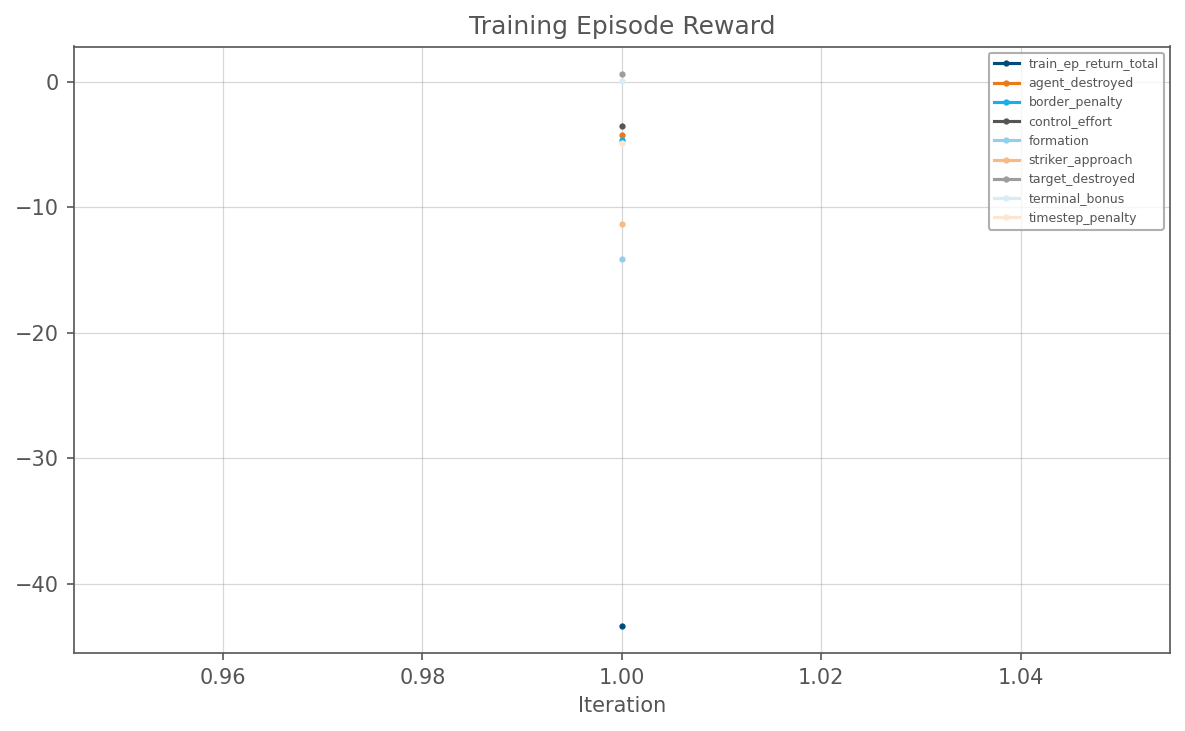
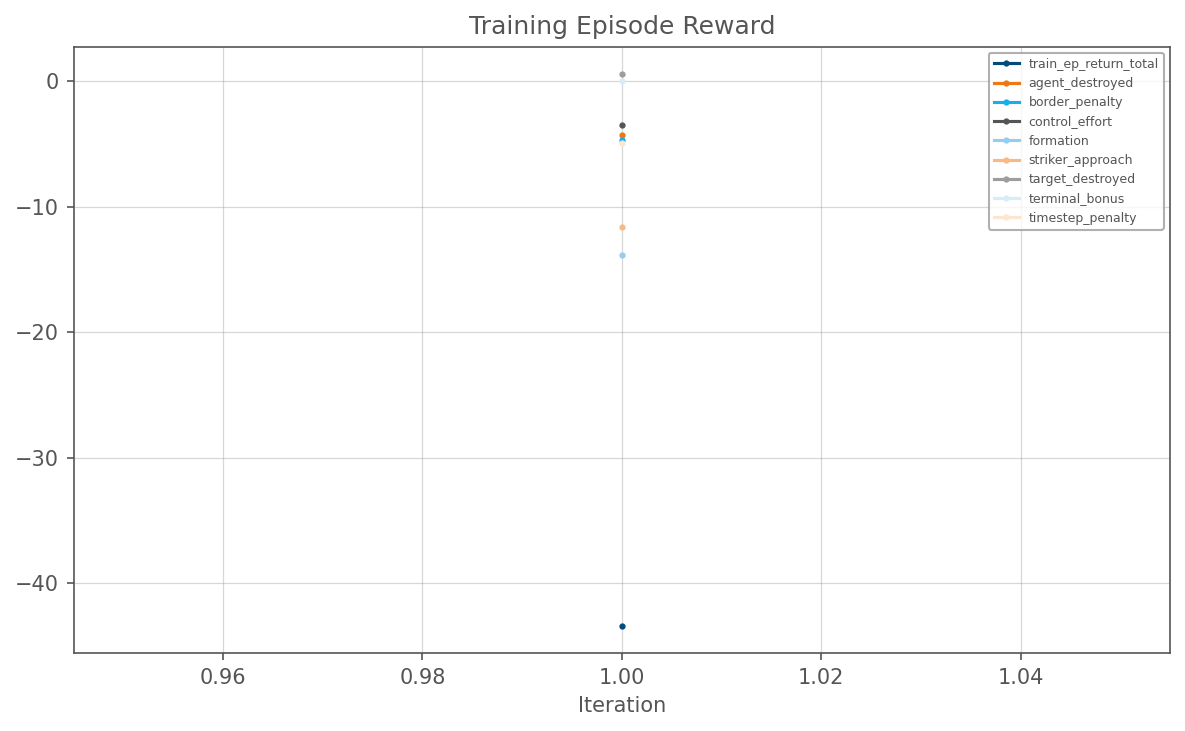
evaluation fucntion adapted

Changed region(s): [[0.0312, 0.7825, 0.0624, 0.8126]]

diff --git a/0_TA_HF_FOFE-MAPPO/evaluate_policy.py b/0_TA_HF_FOFE-MAPPO/evaluate_policy.py
@@ -44,6 +44,21 @@ straight across. Field rules are identical:
 copy-paste compatibility. `name` is the row label in the results table.
 
 ──────────────────────────────────────────────────────────────────────────────
+HOW TO EVALUATE DIFFERENT POLICIES IN ONE RUN
+──────────────────────────────────────────────────────────────────────────────
+Each scenario may set `policy_file` to choose which checkpoint evaluates it, so
+a single run can compare policies side by side:
+
+    policy_file="BaselineV2.pt"      → resolves under runs/ (the common case)
+    policy_file=r"C:\\path\\to\\x.pt"  → absolute path, used as-is
+    policy_file=None                 → falls back to the --checkpoint default
+
+Checkpoints are loaded once and cached, so reusing the same file across
+scenarios costs nothing. The "Policy" column in the table shows what ran where.
+--checkpoint is optional: it is only required if some scenario leaves
+`policy_file` as None.
+
+──────────────────────────────────────────────────────────────────────────────
 HOW EVALUATION WORKS
 ──────────────────────────────────────────────────────────────────────────────
 For every scenario we run N_REPEATS independent repeats; each repeat evaluates
@@ -78,6 +93,7 @@ for _stream in (sys.stdout, sys.stderr):
 
 # ── package bootstrap (so the file runs as a script OR as -m fofe_mappo.*) ──
 _THIS_DIR = Path(__file__).resolve().parent
+_RUNS_DIR = _THIS_DIR / "runs"      # bare policy_file names resolve here
 _PKG_NAME = "fofe_mappo"
 if __package__ in (None, ""):
     sys.path.insert(0, str(_THIS_DIR.parent))
@@ -112,7 +128,30 @@ from .run_curriculum import CurriculumSection, _section_to_env_cfg, _section_lab
 EVAL_SCENARIOS: List[CurriculumSection] = [
     CurriculumSection(
         name="Baseline S1",
-        n_iters=200,                       # ignored during evaluation
+        policy_file="BaselineV2.pt",
+        n_iters=1, # not used
+        n_strikers=1, n_jammers=2,
+        n_known_targets=2, n_unknown_targets=0,
+        n_known_radars=6, n_unknown_radars=0,
+        radar_kill_probability=0.5,
+        scenario="S2",
+        communicate=False,
+    ), 
+    CurriculumSection(
+        name="Baseline S2",
+        policy_file="BaselineV2.pt",
+        n_iters=1, # not used
+        n_strikers=1, n_jammers=2,
+        n_known_targets=1, n_unknown_targets=2,
+        n_known_radars=4, n_unknown_radars=2,
+        radar_kill_probability=0.5,
+        scenario="S2",
+        communicate=False,
+    ), 
+    CurriculumSection(
+        name="FOFE-MAPPO S1",
+        policy_file="FOFE-MAPPO-BaselineV2.pt",
+        n_iters=1, # not used
         n_strikers=1, n_jammers=2,
         n_known_targets=2, n_unknown_targets=0,
         n_known_radars=6, n_unknown_radars=0,
@@ -121,8 +160,9 @@ EVAL_SCENARIOS: List[CurriculumSection] = [
         communicate=True,
     ), 
     CurriculumSection(
-        name="Baseline S2",
-        n_iters=200,                       # ignored during evaluation
+        name="FOFE-MAPPO S2",
+        policy_file="FOFE-MAPPO-BaselineV2.pt",
+        n_iters=1, # not used
         n_strikers=1, n_jammers=2,
         n_known_targets=1, n_unknown_targets=2,
         n_known_radars=4, n_unknown_radars=2,
@@ -221,6 +261,20 @@ class _LoadedCheckpoint:
         )
 
 
+def _resolve_policy_path(policy_file: Optional[str],
+                         default_path: Optional[Path]) -> Optional[Path]:
+    """Resolve a scenario's `policy_file` to a concrete checkpoint path.
+
+    None              → the run's --checkpoint default (may be None).
+    bare name / rel.  → under runs/ (e.g. "BaselineV2.pt").
+    absolute path     → used as-is.
+    """
+    if policy_file is None:
+        return default_path
+    p = Path(policy_file)
+    return p if p.is_absolute() else (_RUNS_DIR / p)
+
+
 def _build_policy_for_scenario(ckpt: _LoadedCheckpoint, env_cfg: EnvConfig,
                                device: torch.device):
     """Rebuild a policy sized to env_cfg's role split and strict-load weights.
@@ -250,23 +304,48 @@ def _mean_std(values: List[float]) -> tuple[float, float]:
 
 
 def evaluate_scenarios(
-    ckpt: _LoadedCheckpoint,
     scenarios: List[CurriculumSection],
+    default_ckpt_path: Optional[Path],
     n_episodes: int,
     n_repeats: int,
     base_seed: int,
     device: torch.device,
 ) -> List[Dict[str, Any]]:
-    """Evaluate the frozen policy on every scenario and return result rows."""
+    """Evaluate every scenario (each with its own policy) and return result rows."""
     rows: List[Dict[str, Any]] = []
+    cache: Dict[str, _LoadedCheckpoint] = {}      # resolved path → loaded ckpt
+
+    def _load(path: Path) -> _LoadedCheckpoint:
+        key = str(path.resolve())
+        if key not in cache:
+            print(f"  Loading policy: {path.name}", flush=True)
+            ck = _LoadedCheckpoint(path, device)
+            print(f"      producer={ck.producer}  "
+                  f"FOFE={'on' if ck.fofe_cfg.use_fofe else 'off'}  "
+                  f"HF_radar={'on' if ck.hf_radar_cfg is not None else 'off'}",
+                  flush=True)
+            cache[key] = ck
+        return cache[key]
 
     for i, section in enumerate(scenarios):
+        ckpt_path = _resolve_policy_path(section.policy_file, default_ckpt_path)
+        if ckpt_path is None:
+            raise RuntimeError(
+                f"Scenario '{section.name}' sets no policy_file and no "
+                f"--checkpoint default was given — cannot pick a policy."
+            )
+        if not ckpt_path.exists():
+            raise FileNotFoundError(
+                f"Scenario '{section.name}': policy not found: {ckpt_path}"
+            )
+        ckpt = _load(ckpt_path)
+
         env_cfg = _section_to_env_cfg(
             section, ckpt.base_env_cfg, ckpt.reward_cfg, ckpt.fofe_cfg
         )
         dr_tag = "DR" if env_cfg.dr is not None else "fixed"
         print(f"[{i + 1:2d}/{len(scenarios)}] {section.name:20s} ({dr_tag})  "
-              f"{_section_label(section, env_cfg)}", flush=True)
+              f"[{ckpt_path.name}]  {_section_label(section, env_cfg)}", flush=True)
 
         policy = _build_policy_for_scenario(ckpt, env_cfg, device)
 
@@ -288,6 +367,8 @@ def evaluate_scenarios(
 
         row: Dict[str, Any] = {
             "name": section.name,
+            "policy": ckpt_path.name,
+            "producer": ckpt.producer,
             "scenario": env_cfg.scenario,
             "S": env_cfg.n_strikers, "J": env_cfg.n_jammers,
             "T": env_cfg.n_targets, "R": env_cfg.n_radars,
@@ -307,11 +388,11 @@ def evaluate_scenarios(
     return rows
 
 
-def _print_table(rows: List[Dict[str, Any]], n_episodes: int, n_repeats: int,
-                 producer: str) -> None:
+def _print_table(rows: List[Dict[str, Any]], n_episodes: int,
+                 n_repeats: int) -> None:
     """Print the KPI table: one row per scenario, mean ± std per KPI."""
     # Context columns + one cell per KPI ("0.923 ± 0.031").
-    ctx_headers = ["Scenario", "Scn", "S", "J", "T", "R", "Comm"]
+    ctx_headers = ["Scenario", "Policy", "Scn", "S", "J", "T", "R", "Comm"]
 
     def _cell(row, key, fmt):
         mean, std = row[f"{key}_mean"], row[f"{key}_std"]
@@ -323,7 +404,7 @@ def _print_table(rows: List[Dict[str, Any]], n_episodes: int, n_repeats: int,
     table_rows = []
     for row in rows:
         name = row["name"] + ("*" if row["dr"] else "")
-        ctx = [name, row["scenario"], str(row["S"]), str(row["J"]),
+        ctx = [name, row["policy"], row["scenario"], str(row["S"]), str(row["J"]),
                str(row["T"]), str(row["R"]), "on" if row["comm"] else "off"]
         kpis = [_cell(row, key, fmt) for key, _, _, fmt in KPI_COLUMNS]
         table_rows.append(ctx + kpis)
@@ -340,8 +421,10 @@ def _print_table(rows: List[Dict[str, Any]], n_episodes: int, n_repeats: int,
             for c, cell in enumerate(cells)
         )
 
+    n_policies = len({row["policy"] for row in rows})
     sep = "  ".join("-" * w for w in widths)
-    title = (f"  Policy Evaluation  (producer: {producer} | "
+    title = (f"  Policy Evaluation  ({n_policies} "
+             f"{'policy' if n_policies == 1 else 'policies'} | "
              f"{n_episodes} episodes × {n_repeats} repeats per scenario)")
     bar = "=" * max(len(sep), len(title))
 
@@ -367,8 +450,8 @@ def _write_csv(rows: List[Dict[str, Any]], out_dir: Path, n_episodes: int,
     stamp = datetime.now().strftime("%Y%m%d_%H%M%S")
     out_path = out_dir / f"policy_eval_{stamp}.csv"
 
-    fieldnames = ["name", "scenario", "S", "J", "T", "R", "comm", "dr",
-                  "n_episodes", "n_repeats"]
+    fieldnames = ["name", "policy", "producer", "scenario", "S", "J", "T", "R",
+                  "comm", "dr", "n_episodes", "n_repeats"]
     for key, *_ in KPI_COLUMNS:
         fieldnames += [f"{key}_mean", f"{key}_std"]
 
@@ -376,7 +459,8 @@ def _write_csv(rows: List[Dict[str, Any]], out_dir: Path, n_episodes: int,
         writer = csv.DictWriter(fh, fieldnames=fieldnames)
         writer.writeheader()
         for row in rows:
-            out = {k: row[k] for k in ("name", "scenario", "S", "J", "T", "R", "comm", "dr")}
+            out = {k: row[k] for k in ("name", "policy", "producer", "scenario",
+                                       "S", "J", "T", "R", "comm", "dr")}
             out["n_episodes"] = n_episodes
             out["n_repeats"] = n_repeats
             for key, *_ in KPI_COLUMNS:
@@ -395,8 +479,9 @@ def _build_parser() -> argparse.ArgumentParser:
         description="Evaluate one pretrained FOFE-MAPPO checkpoint across the "
         "EVAL_SCENARIOS defined at the top of this file.",
     )
-    p.add_argument("--checkpoint", required=True, type=str, metavar="PATH",
-                   help="Path to a .pt checkpoint from run.py or run_curriculum.py.")
+    p.add_argument("--checkpoint", type=str, default=None, metavar="PATH",
+                   help="Default .pt checkpoint for scenarios that leave "
+                   "policy_file=None. Optional if every scenario sets policy_file.")
     p.add_argument("--n_episodes", type=int, default=N_EVAL_EPISODES,
                    help=f"Episodes per repeat (default: {N_EVAL_EPISODES}).")
     p.add_argument("--n_repeats", type=int, default=N_REPEATS,
@@ -415,36 +500,35 @@ def _build_parser() -> argparse.ArgumentParser:
 def main() -> None:
     args = _build_parser().parse_args()
 
-    ckpt_path = Path(args.checkpoint)
-    if not ckpt_path.exists():
-        raise FileNotFoundError(f"Checkpoint not found: {ckpt_path}")
     if not EVAL_SCENARIOS:
         raise RuntimeError("EVAL_SCENARIOS is empty — define at least one scenario.")
+
+    default_ckpt_path = Path(args.checkpoint) if args.checkpoint else None
+    if default_ckpt_path is not None and not default_ckpt_path.exists():
+        raise FileNotFoundError(f"Checkpoint not found: {default_ckpt_path}")
 
     device = torch.device(args.device) if args.device else torch.device(
         "cuda" if torch.cuda.is_available() else "cpu"
     )
 
+    overrides = sum(s.policy_file is not None for s in EVAL_SCENARIOS)
     print("─" * 70)
-    print(f"  Checkpoint : {ckpt_path.name}")
-    print(f"  Device     : {device}")
-    ckpt = _LoadedCheckpoint(ckpt_path, device)
-    print(f"  Producer   : {ckpt.producer}")
-    print(f"  FOFE       : {'enabled' if ckpt.fofe_cfg.use_fofe else 'disabled (legacy)'}")
-    print(f"  HF radar   : {'enabled' if ckpt.hf_radar_cfg is not None else 'disabled'}")
-    print(f"  Scenarios  : {len(EVAL_SCENARIOS)}")
-    print(f"  Eval       : {args.n_episodes} episodes × {args.n_repeats} repeats")
+    print(f"  Default ckpt: {default_ckpt_path.name if default_ckpt_path else '(none)'}")
+    print(f"  Device      : {device}")
+    print(f"  Scenarios   : {len(EVAL_SCENARIOS)} "
+          f"({overrides} with a per-scenario policy_file)")
+    print(f"  Eval        : {args.n_episodes} episodes × {args.n_repeats} repeats")
     print("─" * 70)
 
     rows = evaluate_scenarios(
-        ckpt, EVAL_SCENARIOS,
+        EVAL_SCENARIOS, default_ckpt_path,
         n_episodes=args.n_episodes,
         n_repeats=args.n_repeats,
         base_seed=args.seed,
         device=device,
     )
 
-    _print_table(rows, args.n_episodes, args.n_repeats, ckpt.producer)
+    _print_table(rows, args.n_episodes, args.n_repeats)
 
     if not args.no_csv:
         out_dir = Path(args.out_dir) if args.out_dir else (_THIS_DIR / "eval_results")

diff --git a/0_TA_HF_FOFE-MAPPO/config.py b/0_TA_HF_FOFE-MAPPO/config.py
@@ -192,8 +192,9 @@ class EnvConfig:
     min_turn_radius: float = 0.001
 
     # Sensors
-    R_obs: float = 0.4
-    R_comm: float = 0.4
+    # R_radar = +- 0.2 < R_obs < R_comm
+    R_obs: float = 0.3 
+    R_comm: float = 0.5 
     # Inter-agent communication. When True, agents within a connected R_comm
     # subgroup share observations (multi-hop). When False, each agent forms its
     # own singleton subgroup and only senses entities within its own R_obs.
@@ -225,8 +226,8 @@ class EnvConfig:
     striker_v_min: float = 0.005
 
     # Jammers
-    jammer_jam_radius: float = 0.35
-    jammer_jam_effect: float = 0.15
+    jammer_jam_radius: float = 0.35 # LF model 
+    jammer_jam_effect: float = 0.15 # LF model 
     jammer_v_min: float = 0.005
 
     # Threats
@@ -426,17 +427,17 @@ class HFRadarConfig:
 
     # Radar angular/lobe model parameter
     radar_side_lobe_gain: Optional[float] = None   # G_S [dB], preferred name
-    G_S: float = 5                                 # legacy alias [dB]
+    G_S: float = 10                                 # side lobe gain [dB] = main lobe gain - 17 dB
 
     # Jammer RF parameters
     jammer_tx_power: Optional[float] = None        # P_J [W], preferred name
     jammer_gain: Optional[float] = None            # G_J [dB], preferred name
     P_J: float = 1e1                              # legacy alias [W]
-    G_J: float = 15.0                              # legacy alias [dB]
+    G_J: float = 10.0                              # legacy alias [dB]
 
     # Angular lobe boundaries (degrees, converted to radians internally)
     theta_main_deg: float = 10    # full main-lobe width 
-    theta_side_deg: float = 17.5*2    # full side-lobe+main-lobe cone width 
+    theta_side_deg: float = 22.5*2    # full side-lobe+main-lobe cone width 
 
     # ------------------------------------------------------------------
     # Directional jammer model

diff --git a/0_TA_HF_FOFE-MAPPO/run_curriculum.py b/0_TA_HF_FOFE-MAPPO/run_curriculum.py
@@ -97,6 +97,11 @@ class CurriculumSection:
     # Inter-agent communication: None → inherit from config.py, True/False → fixed.
     communicate:            Optional[bool]  = None
 
+    # Evaluation only (ignored during training): which checkpoint to evaluate
+    # this scenario with. None → use the run's --checkpoint default. A bare name
+    # (e.g. "BaselineV2.pt") resolves under runs/; an absolute path is used as-is.
+    policy_file:            Optional[str]   = None
+
 
 CURRICULUM: List[CurriculumSection] = [
     # ── Stage 1: the simplest possible case, fixed, to bootstrap behaviour ──